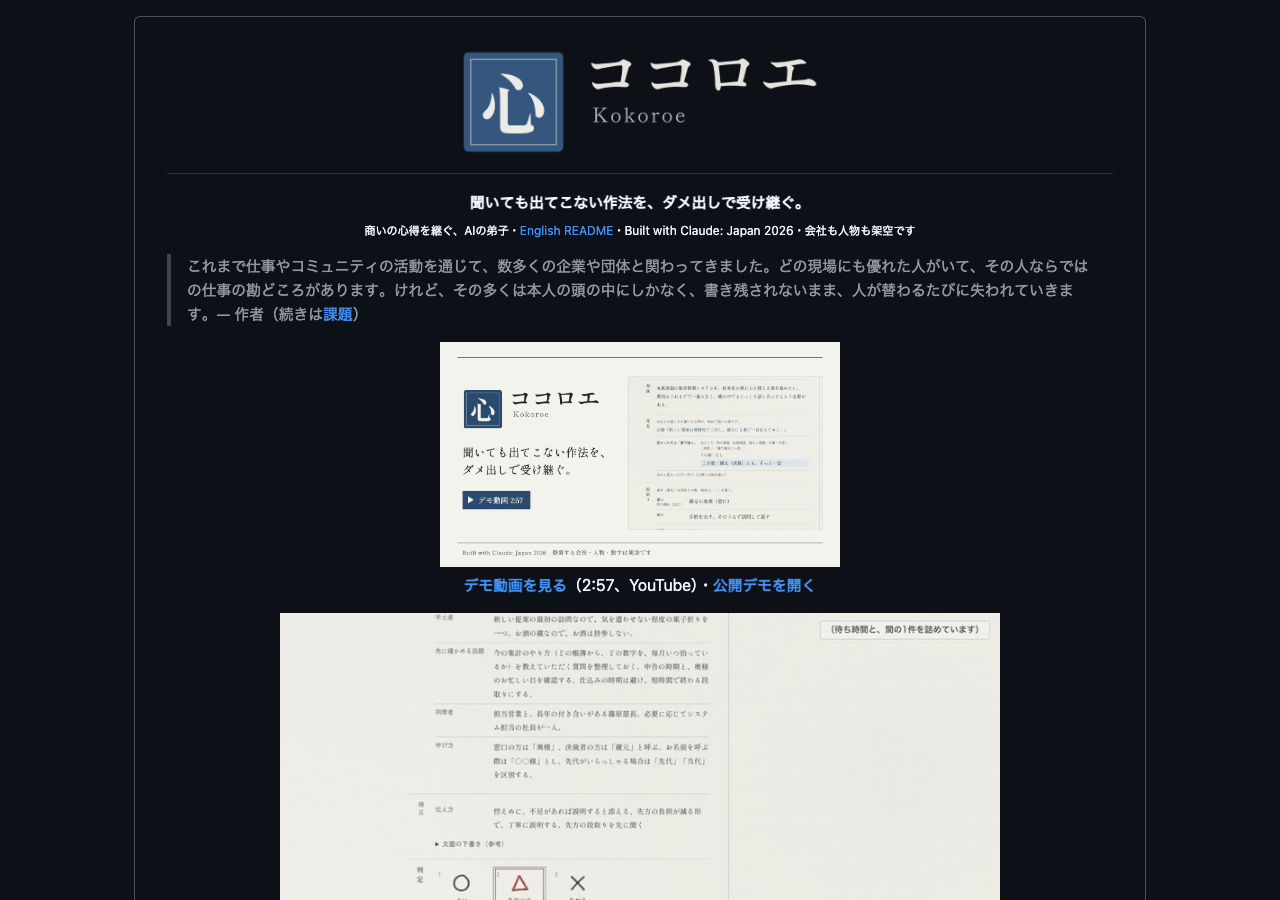
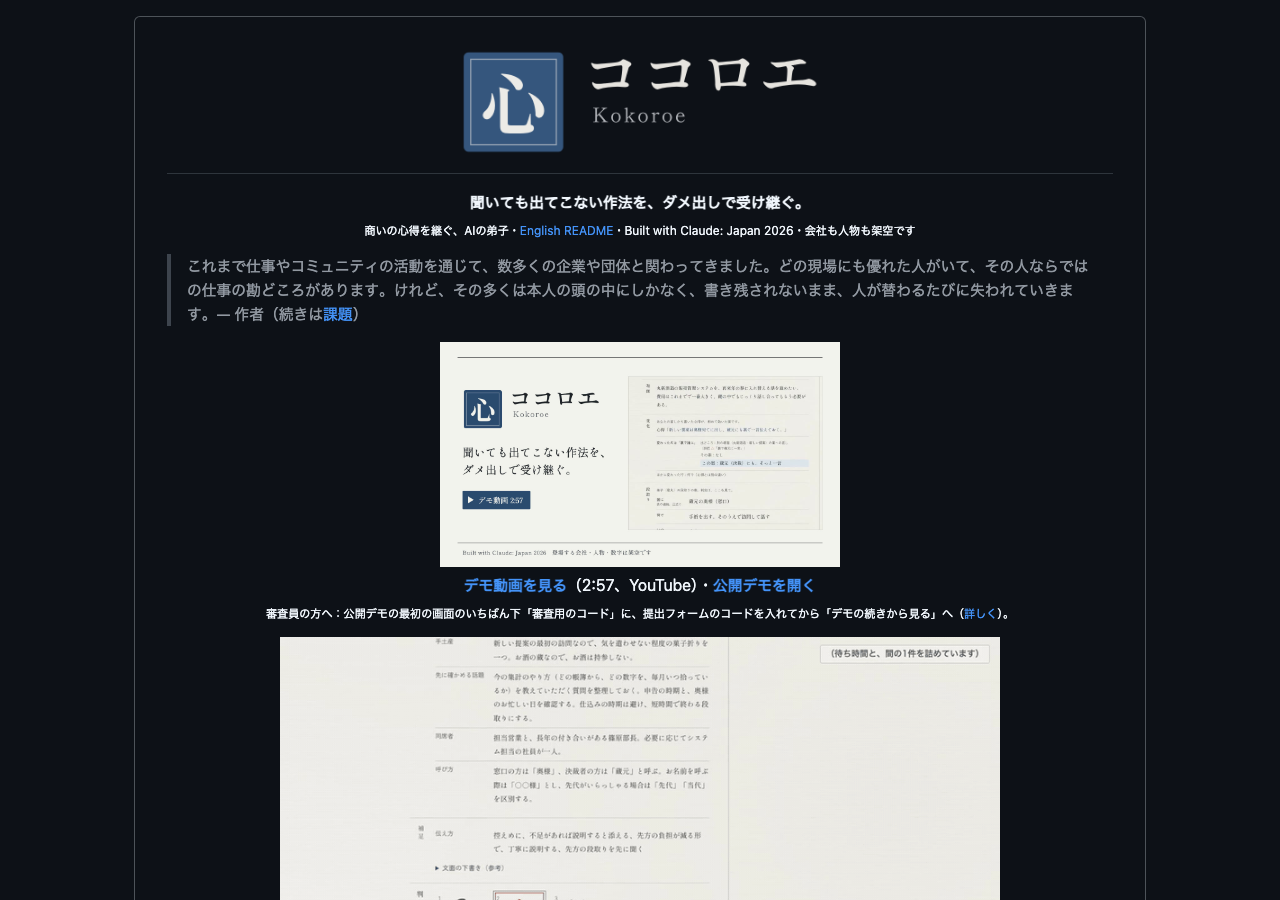
Publishing polish: AGPL note for early MIT commits, SECURITY.md (private vulnerability reporting), repo About/topics/social preview and v1.0.0 tag/release drafts, leftover-files check, README fixes from judge-critic (△ without/with a word, the four screens, where judges start), submission overview 平

Changed region(s): [[0.2188, 0.6533, 0.7812, 1.0]]

diff --git a/docs/publishing.md b/docs/publishing.md
@@ -105,6 +105,7 @@
 | ローカルの設定 | `git check-ignore -v .claude/settings.local.json`、`git ls-files` | `.claude/settings.local.json` は `.gitignore` で除外、追跡なし。Claude Security の出力 `CLAUDE-SECURITY-*/` も除外（11/7 に足した。要約だけ `docs/audits/`） | — |
 | `.env` | `.env.example` の中身、`git check-ignore -v .env .env.local .env.production` | `.env.example` はあり、`ANTHROPIC_API_KEY=` は空、ほかは既定値の注（モデル名・数の上限）だけ。`.env`・`.env.*` は除外、追跡なし（`.env.example` だけ追跡） | — |
 | 除外すべきファイル | 上の表のコマンド | 追跡なし | — |
+| 公開したくない作業の残り（11/7 に追加） | `git ls-files \| grep -E 'CLAUDE-SECURITY\|(^\|/)\.DS_Store$\|\.(log\|tmp\|swp\|bak\|orig)$\|~$\|(^\|/)(\.next\|\.image\|\.data\|tmp\|scratchpad)/\|\.bundle$\|\.webm$\|\.mp4$\|\.mp3$'`、`git status --porcelain`、`git ls-files eval/runs` | 当たりなし（11/7）。Claude Security の出力・録画と音声・ビルドの出力・一時ファイルは追跡なし。`eval/runs/` の追跡は、記録として残す計測の要約 31 件だけ（古い未追跡の計測は 11/7 にリポジトリの外へ移した）。作業ツリーに未追跡のファイルなし | 公開の直前（手順1）にもう一度 |
 | 画面と動画 | 静止画（`docs/screens/video-final/`・公開版の `docs/screens/public-v5-*`・エラー画面）と MP4 の各場面を目で確かめた（ui-critic の点検を含む） | API キー・審査用のコード・アカウント番号・内部の値は写っていない。審査用のコードの欄は `type="password"`（点で隠れる）。エラー画面に出るのは Next.js の「問い合わせ用の番号」（中身のない識別子）だけ | `docs/screens/` の 1,207 件の画面写真のうち、目で見たのは今回の点検に使ったもの。ほかは撮影の仕組み（Playwright でページだけ）に頼る |
 | コードの脆弱性 | Claude Security の Scan codebase（全体、medium、攻撃面に重点）→ 要約は `docs/audits/claude-security-2026-11-07.md` | 要約を参照 | 要約の Coverage を参照 |
 | LICENSE・NOTICE | `LICENSE`（AGPL-3.0-only、D-069）、`data/NOTICE.md` | ある | — |
@@ -118,4 +119,39 @@
 3. **Collaborators and teams:** Kento だけ（ほかの人・チームを足さない）。
 4. **Branches → main のルール（ブランチ保護）:** force push を禁止、削除を禁止。直接の push は Kento だけなので、レビュー必須にはしない。
 5. **Actions → General:** このリポジトリはワークフローを持たない。Actions を使わないなら「Disable actions」、使うなら「Allow ikenyal, and select non-ikenyal, actions」で最小に。Workflow permissions は「Read repository contents permission」（読み取りだけ）。
-6. 確かめ: 認証なしで clone し、README の Quickstart（`npm ci`・`npm test`・`npm run dev -- --hostname 127.0.0.1`）が通ること。
+6. **Code security → Private vulnerability reporting を有効に**（`SECURITY.md` が案内している窓口。「Enable」を押す）。gh でもできる:
+   ```bash
+   gh api -X PUT repos/ikenyal/kokoroe/private-vulnerability-reporting
+   gh api repos/ikenyal/kokoroe/private-vulnerability-reporting   # {"enabled":true}
+   ```
+7. 確かめ: 認証なしで clone し、README の Quickstart（`npm ci`・`npm test`・`npm run dev -- --hostname 127.0.0.1`）が通ること。
+
+## 5. リポジトリの見え方（公開のあと、Kento の OK で gh から設定）
+
+- **About の説明文（英語の一行）:** The etiquette no one can put into words — handed down one correction at a time. An AI apprentice that inherits the unwritten etiquette of business.
+- **Website:** https://kokoroe.xzan0gz3dgpb8.ap-northeast-1.cs.amazonlightsail.com/
+- **Topics:** claude, claude-code, anthropic, built-with-claude, tacit-knowledge, human-in-the-loop, nextjs, mcp, agent-skills
+
+```bash
+gh repo edit ikenyal/kokoroe \
+  --description "The etiquette no one can put into words — handed down one correction at a time. An AI apprentice that inherits the unwritten etiquette of business." \
+  --homepage "https://kokoroe.xzan0gz3dgpb8.ap-northeast-1.cs.amazonlightsail.com/" \
+  --add-topic claude,claude-code,anthropic,built-with-claude,tacit-knowledge,human-in-the-loop,nextjs,mcp,agent-skills
+gh repo view ikenyal/kokoroe --json description,homepageUrl,repositoryTopics   # 確かめ
+```
+
+- **Social preview（API では設定できないので Kento が画面で）:** リポジトリの Settings → General →「Social preview」の「Edit」→「Upload an image…」で `app/opengraph-image.png`（1200×630、40KB 足らず）を選ぶ。保存後、リポジトリの URL を Slack や Discord に貼ってプレビューに出ることを確かめる。
+
+## 6. 提出版のタグとリリース（案。付けるのは手順6〔公開〕のあと、Kento の OK で）
+
+提出した版が後から分かるように、提出する main のコミットに注釈つきのタグを付け、リリースを作る。締切（11/8 20:00）より前に行う（締切の後はコミットもタグもしない）。
+
+```bash
+git switch main && git pull --ff-only
+git tag -a v1.0.0 -m "Built with Claude: Japan 2026 提出版 / submission version"
+git push origin v1.0.0
+gh release create v1.0.0 --title "v1.0.0 — Built with Claude: Japan 2026 提出版" --notes-file docs/release-v1.0.0.md --verify-tag
+```
+
+リリースの本文は `docs/release-v1.0.0.md`（日英。動画の URL は `YOUTUBE_URL` を置き換えてから）。
+

diff --git a/docs/submission-draft.md b/docs/submission-draft.md
@@ -34,7 +34,7 @@
 <!-- overview:start -->
 このプロジェクトは、引退を控えた中小企業のベテランの頭の中にしかない取引先ごとの作法を、AI の弟子の案に ○・△・× と、あれば一言で直すだけで、理由と経緯つきの心得帳として後任へ渡せるようにする道具です。
 
-誰に先に伝えるか、正式な話の前に誰の耳に入れておくか。ベテランは聞かれても言葉にできませんが、案を見れば「違う」と言えます。引退が決まってから後任に渡すまでの数か月、師匠は毎日、弟子の案に印を付けるだけです。直しは Claude が読み取り、適用範囲と経緯つきの心得になり、次の案から効きます。後任が「遅延の連絡は確定してからでいいですか」と尋ねると、心得帳だけを根拠に理由と経緯を添えて答え、記録にないことには「師匠に確認を」と返します。心得帳は Agent Skill として後任の Claude Code に渡せます。架空のデータ（取引先10社）で、シミュレータの師匠が学習用40場面に約119回タップ（印・候補の選択・なぜ？・確かめ）すると、評価用20場面で ○ が付く案が54%から71%に、後任が経緯ごと答えられた質問が8問中0から5.2問になりました。
+誰に先に伝えるか、正式な話の前に誰の耳に入れておくか。ベテランは聞かれても言葉にできませんが、案を見れば「違う」と言えます。引退が決まってから後任に渡すまでの数か月、師匠は毎日、弟子の案に印を付けるだけです。直しは Claude が読み取り、適用範囲と経緯つきの心得になり、次の案から効きます。後任が「遅延の連絡は確定してからでいいですか」と尋ねると、心得帳だけを根拠に理由と経緯を添えて答え、記録にないことには「師匠に確認を」と返します。心得帳は Agent Skill として後任の Claude Code に渡せます。架空のデータ（取引先10社）で、シミュレータの師匠が学習用40場面に平均119回タップ（印・候補の選択・なぜ？・確かめ）すると、評価用20場面で ○ が付く案が54%から71%に、後任が経緯ごと答えられた質問が8問中0から5.2問になりました。
 <!-- overview:end -->
 
 ## 6. 公開 GitHub リポジトリ *
@@ -191,11 +191,11 @@ Kento Ikeda（GitHub: ikenyal）
 ```text
 あなたにしかない深さを
 ```
-### 5. プロジェクト概要（487字。500字以内。改行は数えない）
+### 5. プロジェクト概要（488字。500字以内。改行は数えない）
 ```text
 このプロジェクトは、引退を控えた中小企業のベテランの頭の中にしかない取引先ごとの作法を、AI の弟子の案に ○・△・× と、あれば一言で直すだけで、理由と経緯つきの心得帳として後任へ渡せるようにする道具です。
 
-誰に先に伝えるか、正式な話の前に誰の耳に入れておくか。ベテランは聞かれても言葉にできませんが、案を見れば「違う」と言えます。引退が決まってから後任に渡すまでの数か月、師匠は毎日、弟子の案に印を付けるだけです。直しは Claude が読み取り、適用範囲と経緯つきの心得になり、次の案から効きます。後任が「遅延の連絡は確定してからでいいですか」と尋ねると、心得帳だけを根拠に理由と経緯を添えて答え、記録にないことには「師匠に確認を」と返します。心得帳は Agent Skill として後任の Claude Code に渡せます。架空のデータ（取引先10社）で、シミュレータの師匠が学習用40場面に約119回タップ（印・候補の選択・なぜ？・確かめ）すると、評価用20場面で ○ が付く案が54%から71%に、後任が経緯ごと答えられた質問が8問中0から5.2問になりました。
+誰に先に伝えるか、正式な話の前に誰の耳に入れておくか。ベテランは聞かれても言葉にできませんが、案を見れば「違う」と言えます。引退が決まってから後任に渡すまでの数か月、師匠は毎日、弟子の案に印を付けるだけです。直しは Claude が読み取り、適用範囲と経緯つきの心得になり、次の案から効きます。後任が「遅延の連絡は確定してからでいいですか」と尋ねると、心得帳だけを根拠に理由と経緯を添えて答え、記録にないことには「師匠に確認を」と返します。心得帳は Agent Skill として後任の Claude Code に渡せます。架空のデータ（取引先10社）で、シミュレータの師匠が学習用40場面に平均119回タップ（印・候補の選択・なぜ？・確かめ）すると、評価用20場面で ○ が付く案が54%から71%に、後任が経緯ごと答えられた質問が8問中0から5.2問になりました。
 ```
 ### 6. 公開 GitHub リポジトリ
 ```text

diff --git a/README.ja.md b/README.ja.md
@@ -11,7 +11,8 @@
 
 <p align="center">
   <a href="YOUTUBE_URL"><img src="docs/readme/video-thumb.jpg" alt="YouTube のデモ動画（2:57）" width="400"></a><br>
-  <a href="YOUTUBE_URL"><b>デモ動画を見る</b></a>（2:57、YouTube）・<a href="https://kokoroe.xzan0gz3dgpb8.ap-northeast-1.cs.amazonlightsail.com/"><b>公開デモを開く</b></a>
+  <a href="YOUTUBE_URL"><b>デモ動画を見る</b></a>（2:57、YouTube）・<a href="https://kokoroe.xzan0gz3dgpb8.ap-northeast-1.cs.amazonlightsail.com/"><b>公開デモを開く</b></a><br>
+  <sub>審査員の方へ：公開デモの最初の画面のいちばん下「審査用のコード」に、提出フォームのコードを入れてから「デモの続きから見る」へ（<a href="#動かし方">詳しく</a>）。</sub>
 </p>
 
 <p align="center">
@@ -24,11 +25,11 @@
 > **数字は 11/7 の正式な計測です**（学習5本・評価は3回ずつ、`eval/runs/2026-11-07T00-09-03-058Z-final.json`）。
 > 登場する会社・人物・場面はすべて架空です（株式会社だいだい工房と取引先10社）。
 
-**言葉の使い分け：** 作品名は**ココロエ**（Kokoroe）。師匠の作法の一つ一つが**心得**、それを、なぜそうなったか（沿革）と一緒に綴ったものが**心得帳**です。本文の D-0xx は、[docs/decisions.md](docs/decisions.md) の決定記録の番号です。
+**言葉の使い分け：** 作品名は**ココロエ**（Kokoroe）。師匠の作法の一つ一つが**心得**、それを、なぜそうなったか（沿革）と一緒に綴ったものが**心得帳**です。画面は、**帳場**（師匠が案に印を付ける）、**心得帳**、**暖簾を継ぐ**（後任が尋ねる）、**稽古の記録**（下の Before/After の数字）の4つです。本文の D-0xx は、[docs/decisions.md](docs/decisions.md) の決定記録の番号です。
 
 ## 画面で見る（記録済みのデモ・架空のデータ）
 
-**1. 直したら、次が変わる（帳場）** — 師匠が丸新酒造の案に △ を付けた（一言なし）あと、次の根回しの案で、弟子が自分から蔵元への一言を添えました。最初の画面の例と動画の帳場の場面も、この丸新酒造の場面です。公開デモの「デモの続き」では、最初のカードで浜風運輸の同じような「変化」が見られます。
+**1. 直したら、次が変わる（帳場）** — 記録した稽古で、師匠が丸新酒造の案に △ を付けた（一言なし）あと、次の根回しの案で、弟子が自分から蔵元への一言を添えました。最初の画面の例はこの稽古です。動画の帳場の場面は、同じ心得をライブで撮ったもので、師匠が一言を添えています。公開デモの「デモの続き」では、最初のカードで浜風運輸の同じような「変化」が見られます。
 
 <img src="docs/readme/1-choba-change.webp" alt="帳場の「変化」：心得「奥様に正式に送る際は、蔵元にも事前に一言入れておく」。裏で誰に：その案は「なし」、この案は「蔵元（決裁）にも、そっと一言」" width="720">
 
@@ -223,6 +224,7 @@ Claude Code の機能は、それぞれ一つの目的に使いました。
 
 ## ライセンス
 - **コード:** [GNU AGPL-3.0-only](LICENSE)（Copyright (c) 2026 ikenyal）。使う・直す・自社で動かすのは自由です。直したものをネットのサービスとしてほかの人に提供するなら、そのコードも同じ条件で公開してください。
+- **すべての版が対象:** このリポジトリのすべての版は AGPL-3.0-only で公開します。過去のコミットに残る MIT の LICENSE は、非公開で開発していた間のもので、公開にあたって適用しません。
 - **心得帳は利用者のもの:** 利用者が育てた心得帳と、書き出した Skill（心得帳の写し）は、利用者自身のものです（プログラムの出力で、AGPL の対象ではありません）。
 - **別の条件での利用:** ご相談は作者まで（GitHub の [ikenyal](https://github.com/ikenyal)）。
 - **架空の世界データ**（`data/` 配下: だいだい工房の設定・心得・場面）は別です: © 2026 ikenyal. All rights reserved. このプロジェクトの評価・デモ目的に限ります。AGPL-3.0 の対象外です。詳細は [data/NOTICE.md](data/NOTICE.md)。

diff --git a/README.md b/README.md
@@ -14,7 +14,8 @@ An AI apprentice that inherits the unwritten etiquette of business.<br>
 
 <p align="center">
   <a href="YOUTUBE_URL"><img src="docs/readme/video-thumb.jpg" alt="Demo video on YouTube (2:57)" width="400"></a><br>
-  <a href="YOUTUBE_URL"><b>Watch the demo video</b></a> (2:57, YouTube) · <a href="https://kokoroe.xzan0gz3dgpb8.ap-northeast-1.cs.amazonlightsail.com/"><b>Open the public demo</b></a>
+  <a href="YOUTUBE_URL"><b>Watch the demo video</b></a> (2:57, YouTube) · <a href="https://kokoroe.xzan0gz3dgpb8.ap-northeast-1.cs.amazonlightsail.com/"><b>Open the public demo</b></a><br>
+  <sub>Judges: on the demo's home page, open 「審査用のコード」 at the bottom, enter the code from the submission form, then press 「デモの続きから見る」 (<a href="#try-it">details</a>).</sub>
 </p>
 
 <p align="center">
@@ -32,13 +33,15 @@ sees what is wrong when shown a draft: they only mark the AI apprentice's drafts
 **Words used below:** *Kokoroe* (ココロエ) is the name of this work. A *kokoroe* (心得) is one piece of the master's practice; the
 *kokoroe-chō* (心得帳) is the book that keeps them, client by client, with why each came to be — the apprentice learns into it, and
 each entry keeps its *沿革* (history: old → new, the trigger, the master's words, the date). The *帳場* is the master's desk
-(the review screen), and *暖簾を継ぐ* ("taking over the shop curtain") is the successor's screen. D-0xx in the text are decision records in [docs/decisions.md](docs/decisions.md).
+(the review screen), *暖簾を継ぐ* ("taking over the shop curtain") is the successor's screen, and *稽古の記録* (the training
+record) shows the Before/After numbers below on screen. D-0xx in the text are decision records in [docs/decisions.md](docs/decisions.md).
 
 ## See it on screen (recorded demo, fictional data)
 
-**1. Correct it, and the next draft changes (帳場).** After the master marked a draft for 丸新酒造 △ (no remark), the
-apprentice's next draft for a similar situation added, on its own, a quiet word to the 蔵元 (the owner, who decides). The same scene is the home page's example and the
-video's 帳場 scene; in the public demo's recorded run (「デモの続き」), the first card shows the same kind of change (「変化」) for 浜風運輸.
+**1. Correct it, and the next draft changes (帳場).** In a recorded training run, after the master marked a draft for 丸新酒造 △
+(no remark), the apprentice's next draft for a similar situation added, on its own, a quiet word to the 蔵元 (the owner, who decides).
+The home page's example is this run; the video's 帳場 scene shows the same lesson recorded live, where the master adds one word. In the
+public demo's 「デモの続き」 (which starts from a recorded run's 心得帳), the first card shows the same kind of change (「変化」) for 浜風運輸.
 
 <img src="docs/readme/1-choba-change.webp" alt="The 帳場's 「変化」 panel: the 心得 'when writing formally to the owner's wife, give the owner a word first'; behind the scenes: the earlier draft said none, this draft says a quiet word to the owner" width="720">
 
@@ -358,6 +361,8 @@ changed**, as a readable and deletable Agent Skill, for a small company's **clie
 ## License
 - **Code:** [GNU AGPL-3.0-only](LICENSE) — Copyright (c) 2026 ikenyal. You are free to use it, change it and run it for your own
   company. If you offer a changed version to other people as a network service, you must publish that code under the same terms.
+- **Every version:** every version in this repository is published under AGPL-3.0-only. The MIT LICENSE in early commits dates
+  from private development and does not apply to anything published here.
 - **Your 心得帳 is yours.** The 心得帳 you grow and the Skill you export (a copy of it) belong to you: they are the program's
   output, not covered by the AGPL.
 - **Other terms:** to use the code under different terms, contact the author on GitHub ([ikenyal](https://github.com/ikenyal)).

diff --git a/SECURITY.md b/SECURITY.md
@@ -1,0 +1,34 @@
+# Security / セキュリティ
+
+## Reporting a vulnerability / 脆弱性の知らせ方
+
+Please use GitHub's **Private vulnerability reporting** (the "Security" tab → "Report a vulnerability"). Do not open a public issue
+for a vulnerability. No e-mail address is published for this.
+
+脆弱性は、GitHub の **Private vulnerability reporting**（「Security」タブ →「Report a vulnerability」）でお知らせください。
+公開の Issue には書かないでください。メールでの受付はしていません。
+
+This is a hackathon entry (Built with Claude: Japan 2026) maintained by one person; replies are best effort.
+ハッカソンの作品で、作者一人が見ています。返事はできる範囲で行います。
+
+## What the project guards / 守っていること
+
+- **API key:** server-side only (`.env.local`, never committed; a pre-commit check and Gitleaks over the full history).
+  API キーはサーバーの中だけ。コミットしない（コミット前の検査と、全履歴の Gitleaks）。
+- **Public demo spend:** per session, per address per hour, and per day (visitors and judges separately), plus a monthly cap in
+  the Anthropic Console. When a limit is hit, the demo falls back to recorded data.
+  公開版の上限：セッションごと・アドレスごとの1時間・1日（来場者と審査員は別）、Console の月の上限。上限に達すると記録済みのデータで動きます。
+- **Judge code:** never in the repository (set only on the deployment), compared in constant time, tries limited per address,
+  kept as an httpOnly cookie that cannot be forged without the code. It changes only which daily limit is used.
+  審査用のコード：リポジトリに書かない。比べ方は一定時間、試せる回数に上限、httpOnly の cookie。変わるのは1日の上限だけ。
+- **The AI never sends or promises anything:** money, contract terms and first contact with key clients always go to the master.
+  弟子は何も送らず、約束しない。値引き・契約・大事な取引先への最初の連絡は、必ず師匠へ。
+- **Client text cannot rewrite the 心得帳:** only the master's own marks and words become 心得.
+  取引先の文面で心得帳は書き換わらない。心得になるのは、師匠の印と言葉だけ。
+- **Evaluation integrity:** `data/hidden/` (the simulator's ground truth) is frozen (hook + checksum test), and the product code
+  never reads it (an import-boundary test).
+  評価の公正さ：`data/hidden/` は凍結（フックとチェックサムのテスト）、製品のコードからは読まない（テストで検査）。
+- **Own mode** (「自分の会社で始める」) opens only on 127.0.0.1 and never runs on the public deployment.
+  「自分の会社で始める」は 127.0.0.1 だけで開き、公開版では動きません。
+
+The last full scan (Claude Security, 2026-11-07): no verified findings — [docs/audits/claude-security-2026-11-07.md](docs/audits/claude-security-2026-11-07.md).

diff --git a/docs/release-v1.0.0.md b/docs/release-v1.0.0.md
@@ -1,0 +1,35 @@
+<!-- Draft of the GitHub release body for the submission tag v1.0.0 (docs/publishing.md §6). Replace YOUTUBE_URL before use.
+     The tag and release are made only after the repository is public, with Kento's OK, before the deadline. -->
+**Built with Claude: Japan 2026 提出版 / submission version**
+
+ココロエ（Kokoroe）— 聞いても出てこない作法を、ダメ出しで受け継ぐ。
+The etiquette no one can put into words — handed down one correction at a time.
+
+- デモ動画 / Demo video (2:57): YOUTUBE_URL
+- 公開デモ / Public demo: https://kokoroe.xzan0gz3dgpb8.ap-northeast-1.cs.amazonlightsail.com/
+- README: [日本語](https://github.com/ikenyal/kokoroe/blob/v1.0.0/README.ja.md) / [English](https://github.com/ikenyal/kokoroe/blob/v1.0.0/README.md)
+
+### 日本語
+
+AI の弟子（橙丸）が取引先への段取りの案を作り、引退を控えたベテランは ○・△・× と、あれば一言で直すだけ。直しの一つ一つが、なぜそうなったか（沿革）と一緒に心得帳に残り、Agent Skill として後任に渡ります。
+
+正式な計測（11/7、架空の取引先10社・評価用20場面、師匠はシミュレータ）:
+- 評価用20場面の ○ の率: 取引先台帳だけの弟子 54% → 心得帳を育てた弟子 平均 71%（学習5本で 65〜75%）。○＋△ は 69% → 91%。
+- 経緯を問う質問（8問）: 0 → 平均 5.2 問。
+- 師匠のタップ: 平均 約119 回。
+- 値引き・契約などのお誘い 9 件は、9 件とも弟子が自分で師匠に回した。取引先の文面に紛れた指示で心得帳が書き換わったのは 0 件。
+
+登場する会社・人物・数字はすべて架空のデータです。コードは AGPL-3.0-only、`data/` の架空の世界は別の条件（`data/NOTICE.md`）。
+
+### English
+
+An AI apprentice drafts how to handle a client; the retiring veteran only marks it ○ / △ / × with an optional word. Each correction
+is kept in the 心得帳 with why it came to be (its history) and handed to the successor as an Agent Skill.
+
+Official run (11/7; fictional 10 clients / 20 held-out scenes; the master is a simulator):
+- ○ rate on the 20 held-out scenes: apprentice with the client ledger only 54% → with a grown 心得帳 71% on average (5 training paths, 65–75%). ○+△: 69% → 91%.
+- History questions (8): 0 → 5.2 on average.
+- Master's taps: about 119 on average.
+- All 9 lures (discounts, contract terms) were routed to the master by the apprentice itself; injected client text changed the 心得帳 0 times.
+
+All companies, people and numbers are fictional. Code: AGPL-3.0-only; the fictional world in `data/` is under separate terms (`data/NOTICE.md`).

diff --git a/docs/ui-polish-log.md b/docs/ui-polish-log.md
@@ -2220,3 +2220,12 @@ evaluation reads are unchanged.
 - `LICENSE` を gnu.org の AGPL-3.0 の全文（sha256 0d96a4ff…、変更なし）に。先頭に `Copyright (c) 2026 ikenyal`。`package.json` に `"license": "AGPL-3.0-only"`（ロックファイルも）。
 - README（日英）のライセンスの節、`data/NOTICE.md`、`docs/publishing.md`、決定記録（D-008 に「コードの部分は D-069 で置き換え」、D-069 を新設）。依存のライセンスは `docs/licenses.md`。
 - アプリの画面にはライセンスの文言がないので、公開版の画面は変わらない。
+
+## 11/7 公開の仕上げ（Kento の 1〜7）
+
+- README（日英）のライセンスの節に「すべての版は AGPL-3.0-only、過去の MIT の LICENSE は非公開の間のもの」（履歴は書き換えない）。
+- `SECURITY.md`（Private vulnerability reporting、メールは書かない、守っていること）。公開後の有効化の手順を `docs/publishing.md` §4 に。
+- `docs/publishing.md` §5 リポジトリの見え方（About・Website・Topics の gh コマンド、Social preview は Kento が画面で）、§6 提出版のタグ v1.0.0 とリリースの案（本文は `docs/release-v1.0.0.md`）。
+- 公開前の確かめに「公開したくない作業の残り」の行（当たりなし）。README・SECURITY・リリースの本文のリンクを機械で確かめた: 相対リンク・画像・見出しへのリンクの切れ 0、外部リンクは 200（v1.0.0 のタグへのリンクだけ、タグがまだないので 404）。
+- judge-critic（最後の初見の読み）: A2 README の 1 枚目の説明を「記録した稽古（一言なし）／動画はライブで一言あり」に分けた、A3 稽古の記録を含む4つの画面の説明、A4 冒頭に審査員の入り方の一行、A5 提出の概要「約119回」→「平均119回」（488字）。A1（審査用のコードの説明が、案だけでなく読み取り・後任の答えにも効き、セッションごとの上限もなくなることを書いていない）は、Kento が決めた文言なので案として Kento に。B1（冒頭の「何が録画・何がライブ・何が架空か」の箱）、B2（英語の表の 9/9 の行）は案だけ。
+- `docs/screens/readme-head/` を撮り直した。

diff --git a/docs/final-day.md b/docs/final-day.md
@@ -122,7 +122,7 @@
 2. **審査用のコード:** 最初の画面のいちばん下の「審査用のコード」を開き、手元のコードを入れて「確かめる」→「確認しました…」。続けて「師匠になって試す」で、最初の案がライブで出る（10秒ほどまで。上限のお知らせが出ない）。**1枚だけ**で止める。
 3. **コードなしでも動く:** 別のシークレットウィンドウで、コードを入れずに「デモの続きから見る」→ 帳場が開く。
 4. **リポジトリの公開:** https://github.com/ikenyal/kokoroe をログインしていないブラウザで開ける。README の公開デモの URL が上の URL と同じ。LICENSE がある。
-5. **README の動画のリンク:** `README.md`・`README.ja.md` の `YOUTUBE_URL`（各2か所）を、限定公開の URL に置き換える（Kento が URL を渡したら Claude が置き換え、手順5・6より前にコミット）。`grep -n YOUTUBE_URL README*.md` が何も出さないこと。
+5. **README の動画のリンク:** `README.md`・`README.ja.md` の `YOUTUBE_URL`（各2か所）と `docs/release-v1.0.0.md`（1か所）を、限定公開の URL に置き換える（Kento が URL を渡したら Claude が置き換え、手順5・6より前にコミット）。`grep -n YOUTUBE_URL README*.md docs/release-v1.0.0.md` が何も出さないこと（コメントの1行は除く）。
 5. **YouTube:** 限定公開の URL を、ログインしていない別のブラウザで開いて再生できる（非公開になっていない）。長さ 3:00 以内、字幕が読める。
 6. **提出フォーム:** `docs/submission-draft.md` の「貼る用」の順に貼る。審査員のログイン情報の欄に審査用のコードを手で入れる（ほかの欄・README・動画には書かない）。動画の URL・公開デモの URL・リポジトリの URL を、もう一度クリックして開けることを確かめる。
 7. **Console:** `kokoroe-public` の月の上限 $100、$50 の通知がそのままか（今月の使用額も見ておく）。
